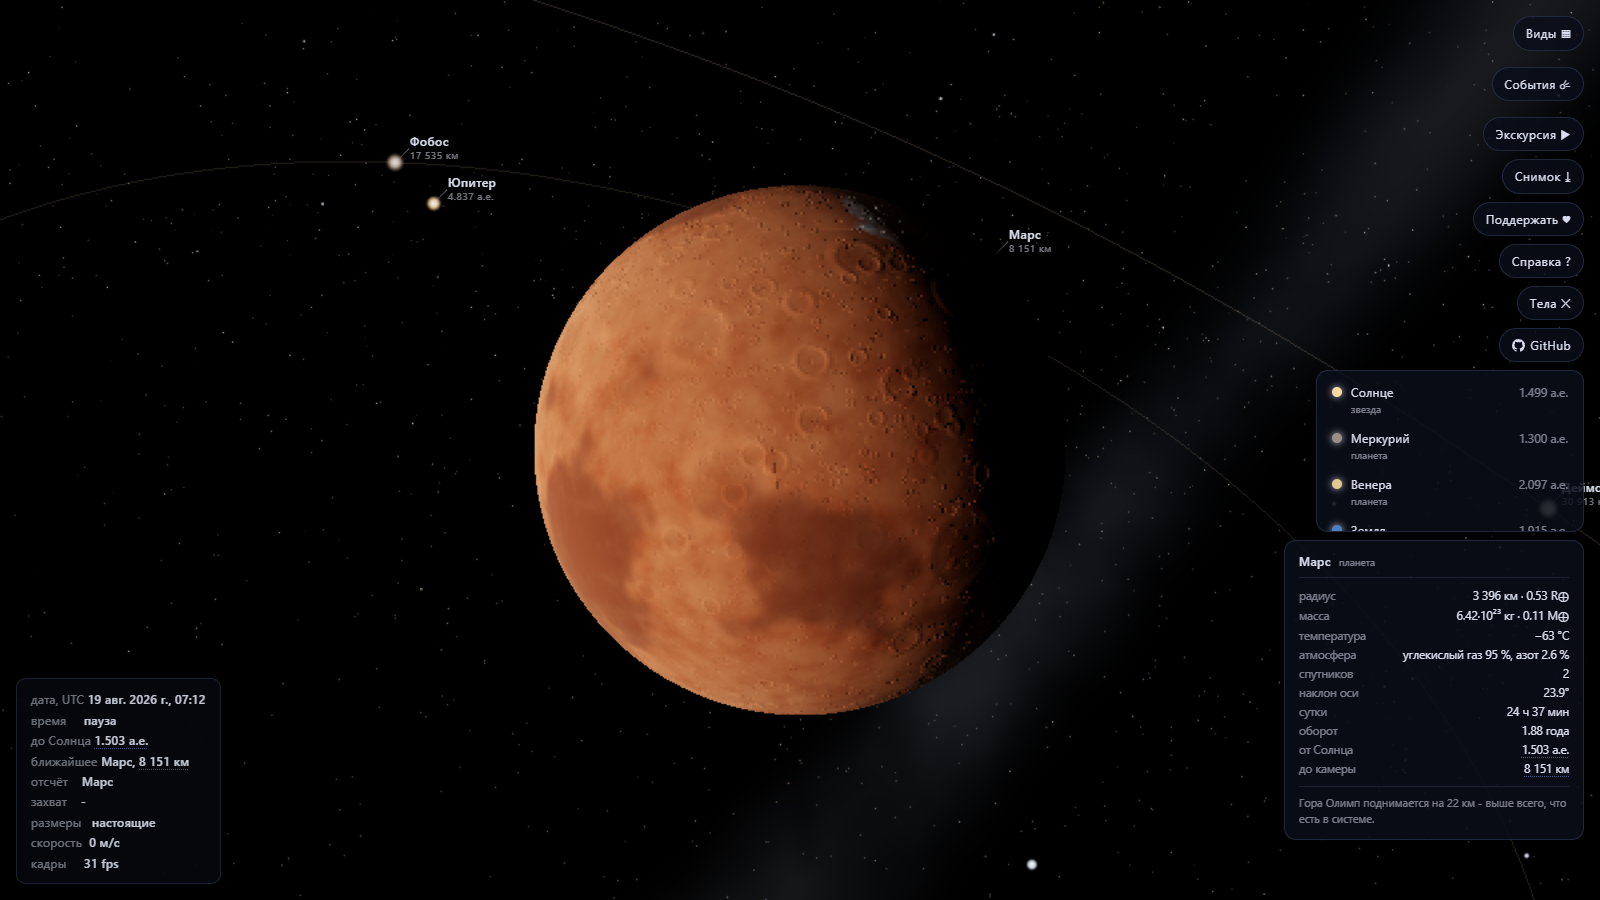
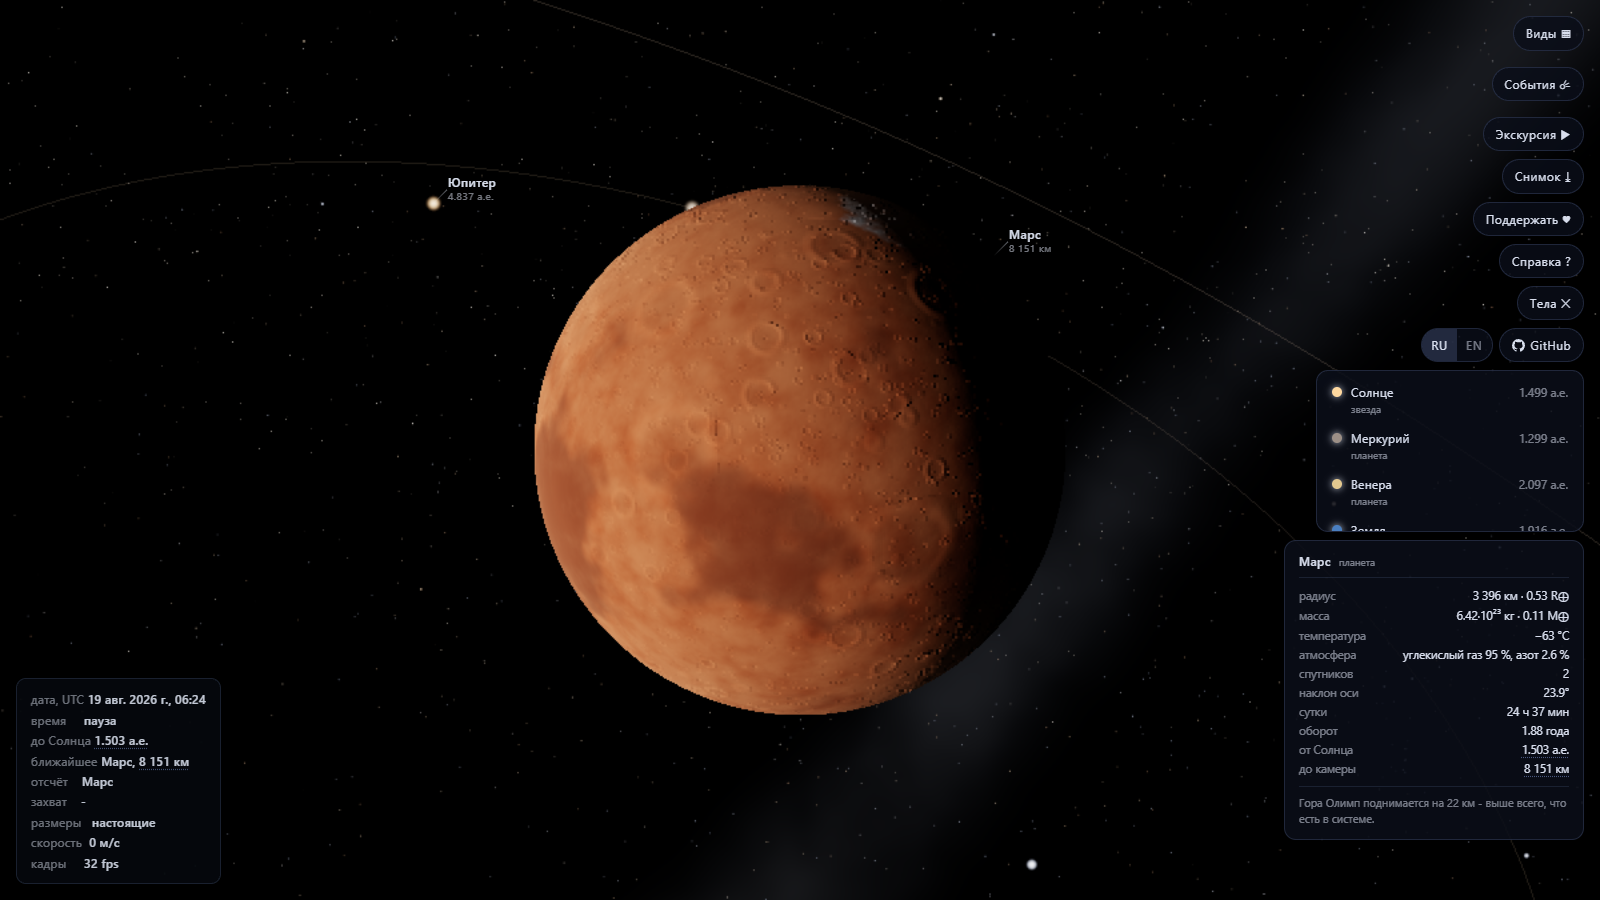
Версия 0.17.0 (#132)
В выпуске английская локализация (#22): все слова интерфейса в одном
словаре, язык по браузеру, переключатель RU/EN, передача языка ссылкой.
Поздравление надписью звёздами (#68): ссылка открывает сцену с коротким
словом, написанным созвездиями, и плашкой со словами автора. Кнопки колонки
больше не ложатся на открытые виды и события (#123), а на низком экране,
телефоне лёжа, встают в ряд вдоль верхнего края. Сквозные тесты в CI идут в
четыре доли.

Снимки пересняты, и скрипт снимков теперь представляется русским браузером:
после локализации безголовый Chromium получал английский интерфейс.
Счётчик тестов: 452 юнит и 131 сквозной.

diff --git a/ROADMAP.md b/ROADMAP.md
@@ -88,7 +88,8 @@
   перезагрузки. Все слова - в одном словаре, недостающий перевод ловит `tsc`.
 - Управление пальцем: касание ведёт к телу, протаскивание осматривает, щипок
   меняет расстояние; разметка, подсказка и справка переставляются под узкий
-  экран.
+  экран. На низком экране, телефоне лёжа, кнопки колонки встают в ряд вдоль
+  верхнего края, а окна выбора - под ними.
 - Пояс астероидов: 4952 настоящих тела из базы малых тел JPL - главный пояс,
   троянцы Юпитера и околоземные. Люки Кирквуда на резонансах с Юпитером
   получаются сами, их никто не рисует.
@@ -96,8 +97,12 @@
   ядро и два хвоста. Ионный прямой и противосолнечный, пылевой изогнут, и
   изгиб выведен уравнениями Хилла, а не нарисован. Карточка кометы говорит,
   есть ли сейчас хвост и почему, а температуру считает от расстояния до Солнца.
-- 396 юнит-тестов и 106 сквозных, адаптивное качество, 130-144 fps.
-- Непрерывная интеграция с разделением сквозных тестов между тремя runner,
+- Поздравление ссылкой: короткое слово написано звёздами - буквы маленькими
+  созвездиями, вершины встают на настоящие яркие звёзды, где те рядом, - и
+  плашка со словами автора. Место на небе одно на день и одно для всех
+  экранов, вдали от Солнца, Луны и планет. Задаёт поздравления владелец сайта.
+- 452 юнит-теста и 131 сквозной, адаптивное качество, 130-144 fps.
+- Непрерывная интеграция с разделением сквозных тестов между четырьмя runner,
   защита `main`, статический анализ, выкладка по тегу. Выкладка проверяет не
   файлы на сервере, а то, что сайт отдаёт по адресу именно новую сборку -
   сверкой хеша в имени бандла.
